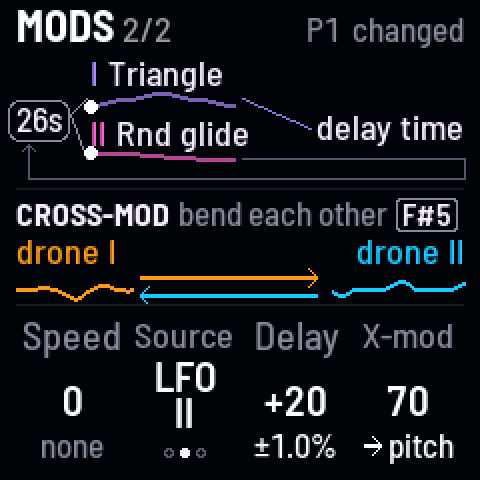
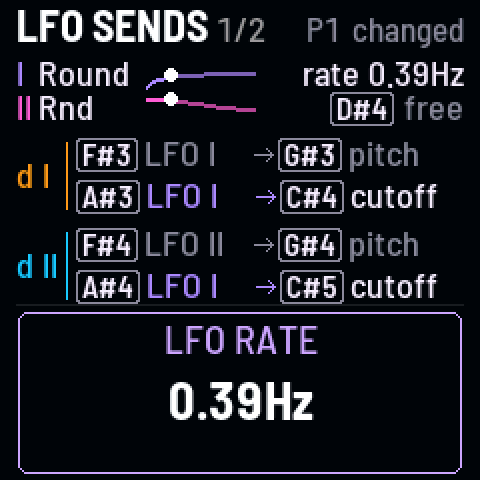
Recipes: Metallic bells struck by the LFO (Roundtooth at -100 on both cutoffs, a strike every 2.5 s), so they ring out as bells

diff --git a/docs/manual/recipes/gestures.md b/docs/manual/recipes/gestures.md
@@ -7,7 +7,7 @@ image: g-stack-0.png
 
 <!-- SPDX-License-Identifier: GPL-3.0-only -->
 
-Gestures are macros: one key moves several settings at once. **PRESETS** sets how fast.
+Gestures are macros: one key moves several settings at once. The **PRESETS** knob (gesture time) sets how fast.
 
 ## Pressure gestures
 
@@ -22,8 +22,8 @@ Keys 9–12: the harder you press, the further in.
 1. Press **Chord**, [[A4]], slowly harder: the drones move into a chord.
 2. Ease off: they come back.
 
-> **Good to know.** Chord builds its chord on the **Scale**, on the **Pitch moves** page ([[SEQ]] twice, KNOB 4):
-> change the scale and the chord changes.
+> **Good to know.** Chord builds its chord on a chose **scale**. Set it on the **Pitch moves** page ([[SEQ]] twice, KNOB 4):
+> Change the scale and the chord changes.
 
 ![Drones, Chord at 90%](../media/g-press-0.png "CHORD 90%")
 
@@ -31,9 +31,9 @@ Keys 9–12: the harder you press, the further in.
 
 - 0:00 P3 Vespers
 - 0:01 Chord pressed lightly: the drones start to move
-- 0:04 harder: a full chord
-- 0:08 eased off: back toward the start
-- 0:11 let go
+- 0:04 Harder: a full chord
+- 0:08 Eased off: back toward the start
+- 0:11 Let go
 
 ## Held gestures
 
@@ -46,7 +46,7 @@ Keys 13–16: the longer you hold, the further in.
 *The longer you hold, the slower it fades*
 
 1. Hold **Wash**, [[G5]], until the reverb has bloomed.
-2. Let go: it fades out as slowly as you held it in.
+2. Let go and it fades out as slowly as you held it in.
 
 ![Drones, Wash at 100%](../media/g-hold-0.png "WASH 100%")
 
@@ -54,14 +54,14 @@ Keys 13–16: the longer you hold, the further in.
 
 - 0:00 P1 Niagara
 - 0:01 Wash held 4 s: the reverb grows
-- 0:05 let go: it fades over 4 s
+- 0:05 Let go: it fades over 4 s
 
-### Hit it fast, let it fade slowly {#speed}
+### Hit it fast and let it fade slowly {#speed}
 
 *Turn PRESETS after letting go*
 
 1. Hold a gesture on a fast Gesture time, and let go.
-2. Turn **PRESETS** left: it fades slowly. (Or slow in, then fast out.)
+2. Turn **PRESETS** left and the gesture fades slowly. (Or slow in, then fast out.)
 
 ![Drones, Wash leaving slowly at 12%](../media/g-speed-0.png "WASH 12%, leaving slowly")
 
@@ -69,7 +69,7 @@ Keys 13–16: the longer you hold, the further in.
 
 - 0:00 P13 Telegraph, Gesture time fast
 - 0:01 Wash held 2 s: in fast
-- 0:03 let go, PRESETS turned left: a slow fade
+- 0:03 Let go, PRESETS turned left: a slow fade
 
 ## Any gesture
 
@@ -80,8 +80,7 @@ Tap, latch, stack and slow down: these work on every gesture key.
 *A tap latches it; SEL latches it at a level*
 
 1. Tap a gesture key: it comes all the way in and stays. Tap again to let it go.
-2. Or hold a gesture key (or press it harder) until the screen shows a level you like, and tap [[SEL]] while still
-   holding it: it latches at that level. Let go when you like.
+2. Or hold a gesture key (or press it harder) until the screen shows a level you like, and tap [[SEL]] while still holding it: it latches at that level. Let go when you like.
 
 ![Drones, Chord latched](../media/g-keep-0.png "Tapped: CHORD latched")
 ![Drones, Chord pressed to 55%](../media/g-keep-1.png "CHORD 55%: tap SEL here")
@@ -90,8 +89,8 @@ Tap, latch, stack and slow down: these work on every gesture key.
 
 - 0:00 P2 Embers
 - 0:01 Chord tapped: all the way in, latched
-- 0:05 tapped again: it goes
-- 0:09 pressed to 55%, SEL tapped: latched there
+- 0:05 Tapped again: it goes
+- 0:09 Pressed to 55%, SEL tapped: latched there
 
 ### Build a climax {#stack}
 
@@ -107,11 +106,11 @@ Tap, latch, stack and slow down: these work on every gesture key.
 - 0:00 P6 Seance
 - 0:01 Snarl pressed: a growl
 - 0:05 Wash held on top: the climax
-- 0:10 both let go
+- 0:10 Both let go
 
 ### Transform a sound over half a minute {#minute}
 
-*A slow Gesture time and a tap*
+*A slow gesture time and a tap*
 
 1. Turn **PRESETS** all the way left: **GESTURE TIME 33 s**.
 2. Tap a gesture key: it comes in on its own.

diff --git a/docs/manual/recipes/sounds.md b/docs/manual/recipes/sounds.md
@@ -122,29 +122,38 @@ buzzes and takes on drone I's pitch as a grain.
 
 ### Metallic bells {#bells}
 
-*Cross-FM: each drone bending the other's pitch, high and pure, into bells*
+*Cross-FM rings two high sines into metal; the LFO strikes it, again and again*
 
 Each drone's sound bends the other's pitch, FM synthesis between the two. On pure, high tones a tritone apart it rings
-into a metallic, bell-like sound; turned higher it clangs and runs wild.
+into a metallic tone. A bell is struck and dies away, so the LFO snaps the filters open and lets them close slowly: a
+bell struck every 2.5 s, ringing out.
 
 1. Press [[EDIT]] for **Osc**, and turn KNOB 1 and KNOB 3, the X-Waves, all the way down: **sine**.
 2. Press [[HOME]] twice for **Pitch**, and turn both drones high, a tritone apart (here C#6 and G6: the top of their
    range is about 1.6 kHz).
 3. Tap black key 11, [[F#5]], until it winks: **bend each other** (twice from off).
-4. Press [[LFO]] twice for **Mods**, and turn KNOB 4, X-mod, up: about 70 rings, 85 clangs.
+4. Press [[LFO]] twice for **Mods**, and turn KNOB 4, X-mod, up to about **70**: the sines ring into metal.
+5. Press [[HOME]] for **Drones**, and turn both cutoffs (KNOB 2 and KNOB 4) down to about **300 Hz**: the metal goes
+   dull.
+6. Press [[LFO]] for **LFO sends**. Tap OCT− until LFO I is **Round** (Roundtooth), and turn SELECT, the LFO's rate,
+   to about **0.4 Hz**. Tap [[A#4]] until drone II's cutoff says **LFO I** too.
+7. Turn KNOB 2 and KNOB 4, the cutoff sends, all the way left: **−100**. Each cycle the filters snap open and close
+   slowly: the bell is struck, and rings out.
 
-> **Good to know.** Simple intervals (an octave, a fifth) lock into harmonies instead of bells; awkward ones (a
-> tritone, a seventh) ring metallic. Lower down, on rich waves, cross-FM only thickens and roughens. If the Swell is
-> on, switch it off ([[ARP]], then [[ARP]] again on its page) so the bells ring steadily.
+> **Good to know.** Roundtooth rises fast and falls at the cycle's end; turned upside down (−100) it jumps and dies
+> away, a strike. SELECT sets how often it strikes. Simple intervals (an octave, a fifth) lock into harmonies instead
+> of bells; awkward ones (a tritone, a seventh) ring metallic. X-mod past 85 clangs and runs wild. If the Swell is on,
+> switch it off ([[ARP]], then [[ARP]] again on its page) so only the LFO strikes.
 
-![Mods, bend each other, X-mod 70](../media/bells-0.png "bend each other, 70")
-![Mods, X-mod 85](../media/bells-1.png "X-mod 85")
+![LFO sends, LFO I on Roundtooth at 0.39 Hz, both cutoffs on LFO I](../media/bells-0.png "Round, 0.39 Hz")
+![LFO sends, both cutoff sends at -100](../media/bells-1.png "both cutoffs −100")
 
 **Listen** (`bells`)
 
 - 0:00 two pure sines, high, a tritone apart
-- 0:01 bend each other, X-mod up: they ring into one metallic, bell-like tone
-- 0:09 X-mod higher: the bells clang and run wild
+- 0:01 bend each other, X-mod up: one metallic tone, but it never stops ringing
+- 0:07 the cutoffs down: the metal goes dull
+- 0:10 the cutoff sends at −100: a bell struck every 2.5 s, bright on the hit, then the top dies first
 
 ### Snarl {#snarl}
 

diff --git a/docs/manual/recipes/scratch.md b/docs/manual/recipes/scratch.md
@@ -10,15 +10,14 @@ description: A Niagara Drift tutorial: start from one plain drone (P16 Bare) and
 
 ### Build a sound from scratch {#scratch}
 
-*No Preset needed: start bare, add what you like*
+*No preset needed: start bare, add what you like*
 
-You don't have to start from a Preset. **P16 Bare** is the FM-1 as an analog synth on its defaults: one saw through an
-open filter, everything else off. Build up from there, a control at a time, in any order.
+You don't have to start from a preset. **P16 Bare** is the FM-1 as an analog synth on its defaults: one saw through an open filter, everything else off. Build up from there, a control at a time, in any order.
 
 #### Start bare
 
 1. Press [[SEL]] + [[G5]], tap white key 8 (**P16 Bare**), then [[PLAY]]. Wait for the gold line under
-   [the header](../reference/controls.md#screen-header) to fill: Bare glides in over the Scene time.
+   [the header](../reference/controls.md#screen-header) to fill: Bare glides in over the scene time.
 
 #### Add what you like
 

diff --git a/docs/manual/recipes/scenes.md b/docs/manual/recipes/scenes.md
@@ -9,15 +9,15 @@ image: s-blend-0.png
 
 The 8 white keys are scenes: 6 banks of 8 (A to F) to fill with your own sounds, and the Presets.
 
-### Make a Preset your own {#save}
+### Make a preset your own {#save}
 
 *Pick a bank, change it, SAVE and a white key*
 
-1. Tap a Preset, then pick bank A: hold [[SEL]] and tap [[G4]] (B to F are [[A4]] to [[E5]]).
+1. Tap a preset, then pick bank A: hold [[SEL]] and tap [[G4]] (B to F are [[A4]] to [[E5]]).
 2. Change it as you like.
 3. Hold [[SAVE]] and tap a white key: it's stored there ([the header](../reference/controls.md#screen-header) says A1). Tap that key later to glide back to it.
 
-> **Good to know.** The Presets can't be saved over: your sounds go in A to F.
+> **Good to know.** Presets can't be saved over: your sounds go in A to F.
 
 
 ### Blend two sounds and keep a mix {#blend}

diff --git a/docs/manual/recipes/performing.md b/docs/manual/recipes/performing.md
@@ -24,7 +24,7 @@ image: p-retune-1.png
 
 - 0:00 P8 Sibyl, Fade 3 s
 - 0:01 SEL + PLAY: drone II fades out
-- 0:05 retuned in the silence
+- 0:05 Retuned in the silence
 - 0:07 SEL + PLAY: back in on a minor chord
 
 ### Loop your moves {#loop}
